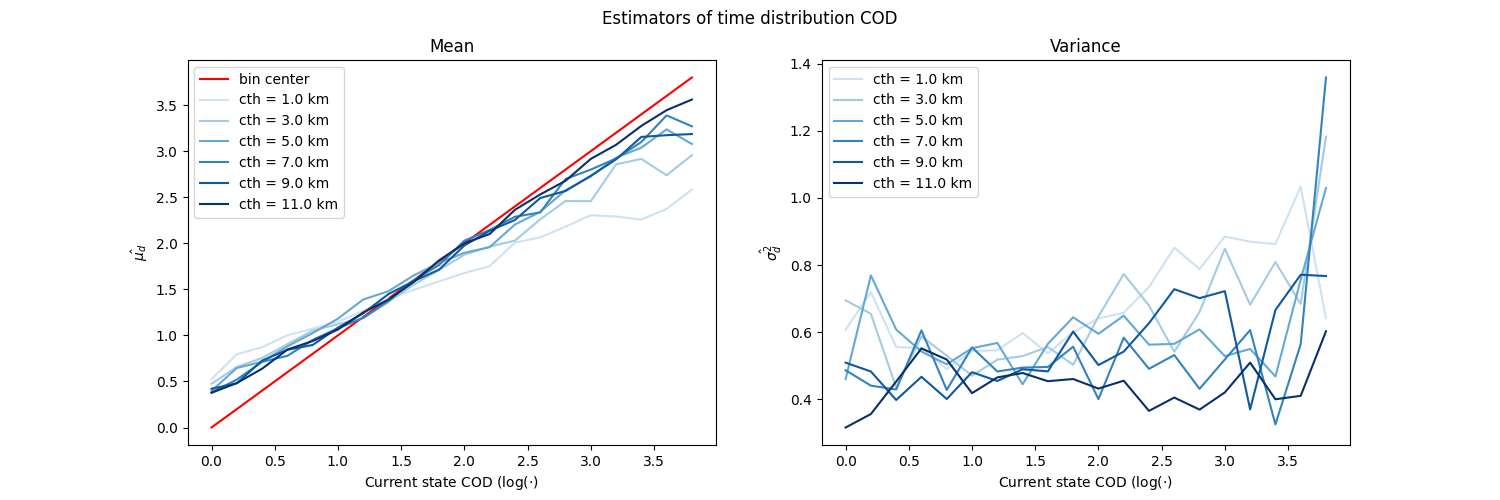
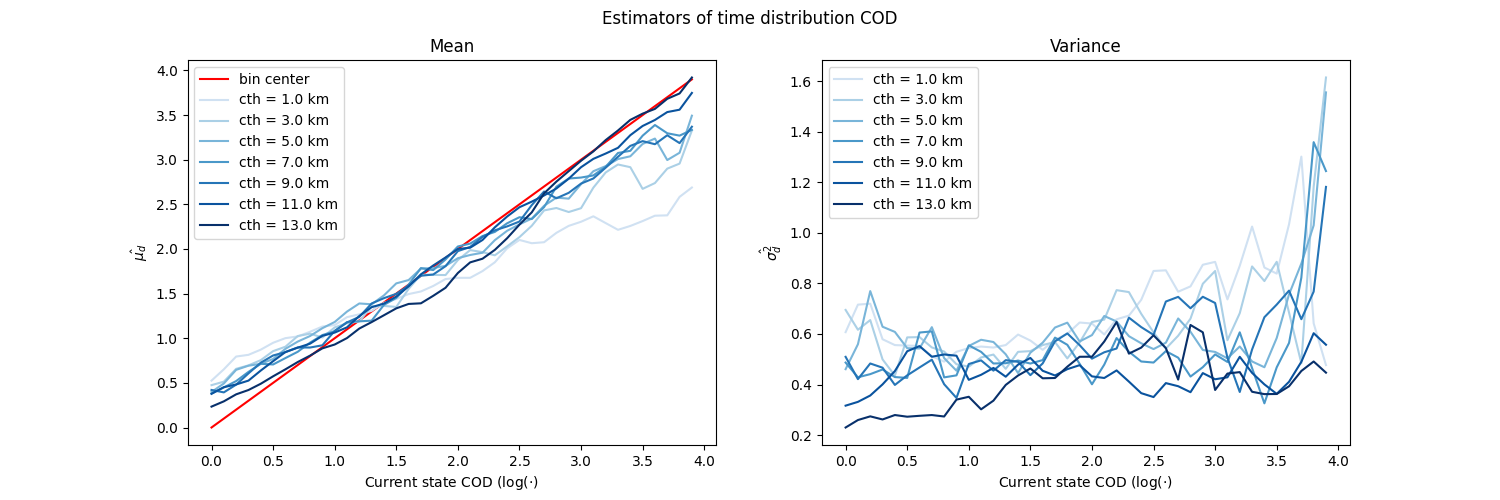
figures

diff --git a/src/model1_plots.py b/src/model1_plots.py
@@ -193,8 +193,8 @@ if __name__ == "__main__":
     #     i += 1
         
     # cod estimators normal distribution
-    mu_h = np.arange(1e3, 13e3, 2e3) # m
-    mu_d = np.arange(0, 4, .2)
+    mu_h = np.arange(1e3, 14e3, 2e3) # m
+    mu_d = np.arange(0, 4, .1)
     n_h = len(mu_h)
     
     bins = state_bins(mu_h, mu_d)
